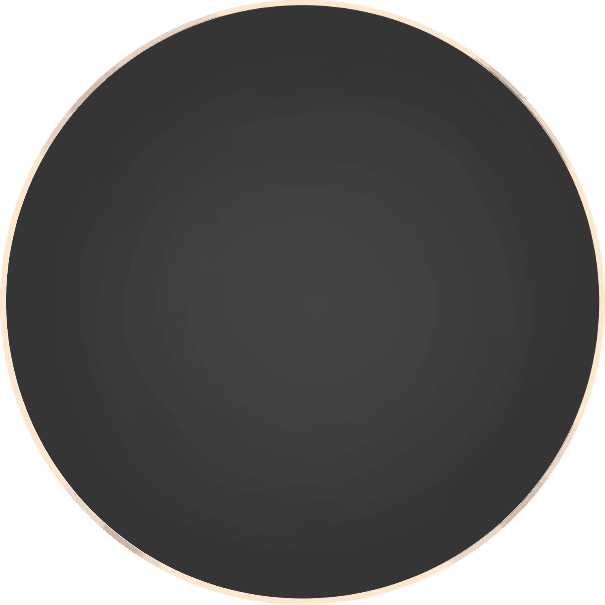
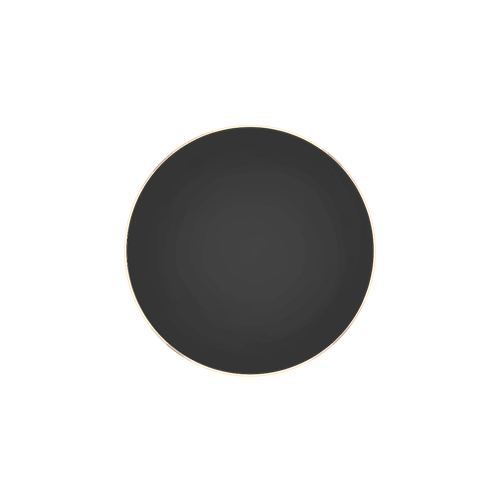
joystick pressed opacity

diff --git a/client/Assets/Scripts/CustomInputManager.cs b/client/Assets/Scripts/CustomInputManager.cs
@@ -277,11 +277,22 @@ public class CustomInputManager : InputManager
     {
         joystickL.transform.position = new Vector3(newPosition.x, newPosition.y, 0);
         joystickL.GetComponentInChildren<MMTouchJoystick>().SetNeutralPosition();
+        SetOpacity();
     }
 
     public void ResetLeftJoystickPosition()
     {
         joystickL.transform.position = initialLeftJoystickPosition;
         joystickL.GetComponentInChildren<MMTouchJoystick>().SetNeutralPosition();
+        UnsetOpacity();
+    }
+
+    public void SetOpacity()
+    {
+        joystickL.GetComponent<Image>().color = new Color(255, 255, 255, 0.25f);
+    }
+    public void UnsetOpacity()
+    {
+        joystickL.GetComponent<Image>().color = new Color(255, 255, 255, 1);
     }
 }

diff --git a/client/Assets/Scripts/UI/LeftMMTouchJoystick.cs b/client/Assets/Scripts/UI/LeftMMTouchJoystick.cs
@@ -16,6 +16,7 @@ public class LeftMMTouchJoystick : MMTouchJoystick
     public override void OnPointerDown(PointerEventData data)
     {
         base.OnPointerDown(data);
+        joystickL.OnPointerDown(data);
         newPointerDownEvent.Invoke(data.position);
     }
     public override void OnDrag(PointerEventData eventData)
